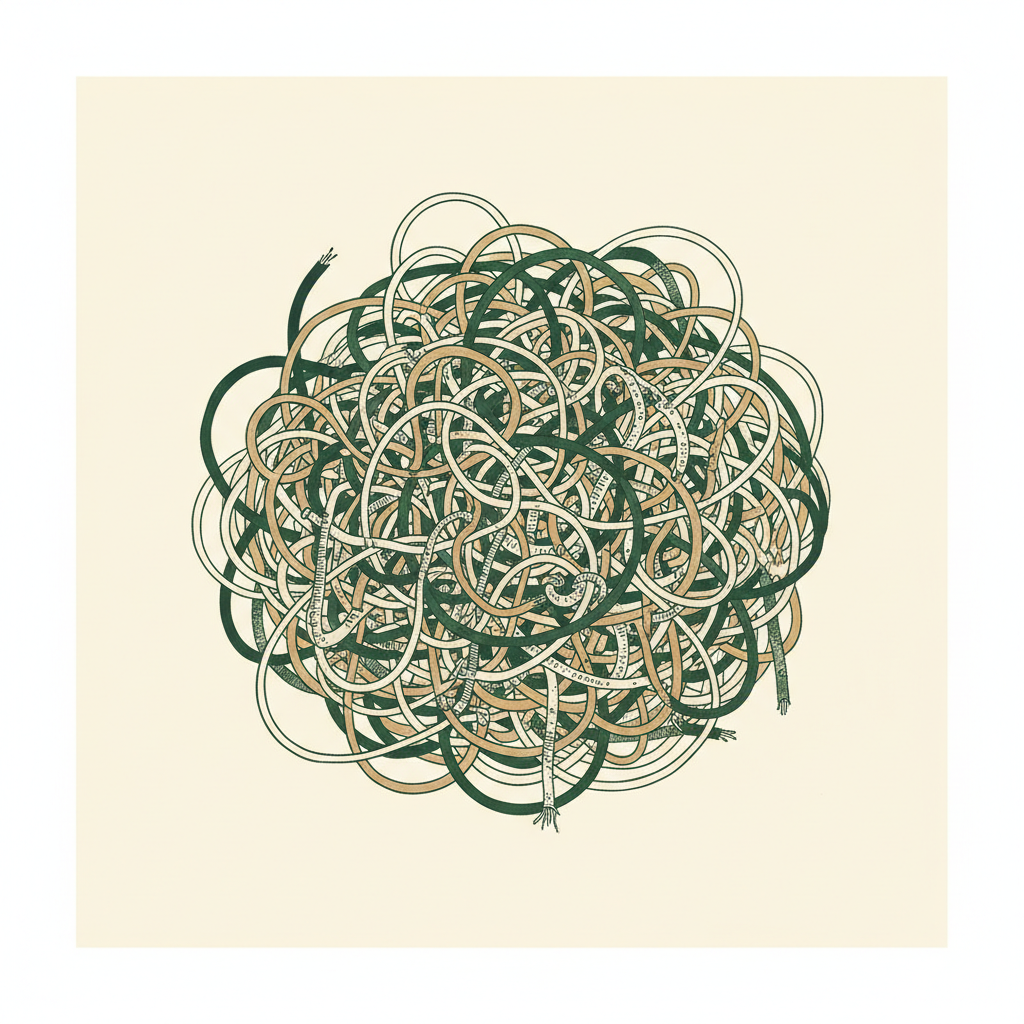
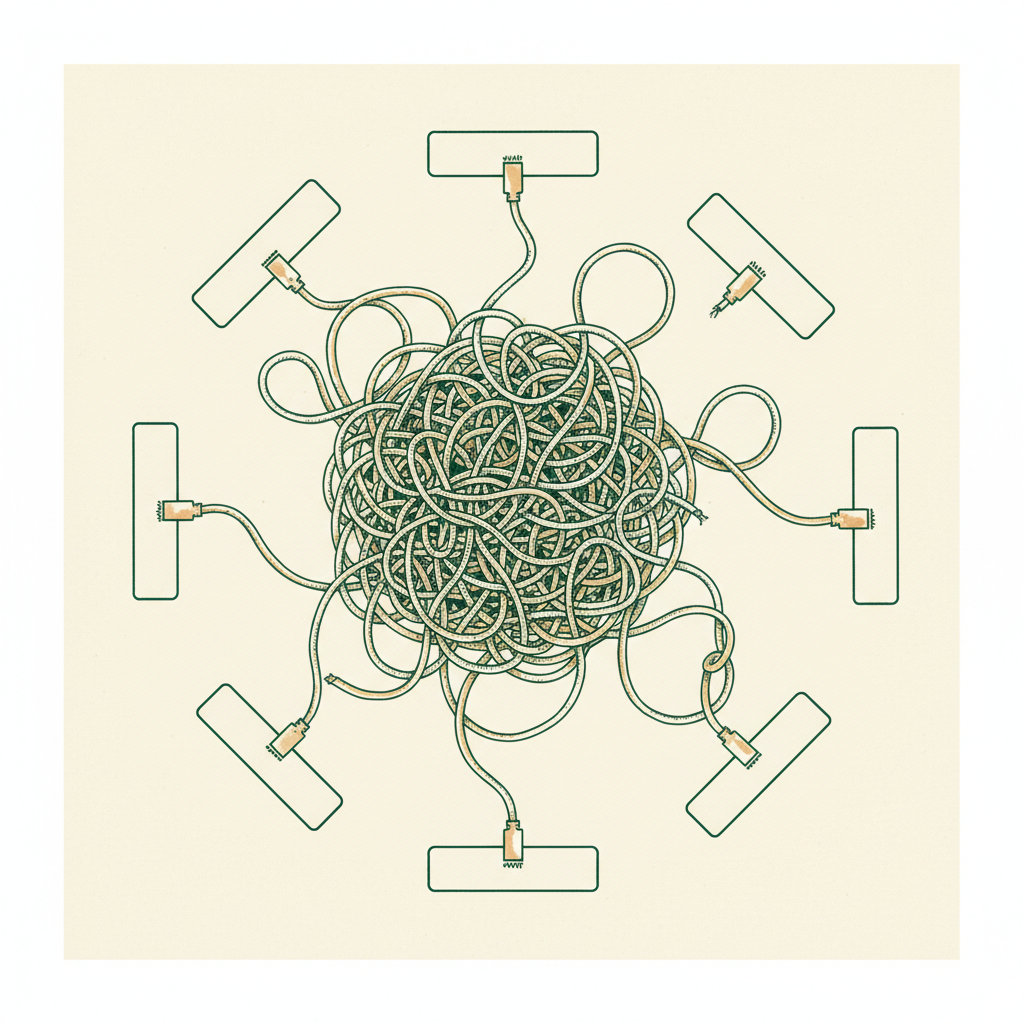
fix(reality): tangled visual now shows wired no-code modules
Reality copy refined to "no-code automation tools wired together",
and the second illustration regenerated so the snarl is the
connecting wires between flowchart-style modules rather than a
generic ball of yarn. Reads more clearly as automation gone wrong.

diff --git a/src/utils/marketingContent.ts b/src/utils/marketingContent.ts
@@ -49,7 +49,7 @@ export const realityPoints: { index: string; label: string; line: string }[] = [
     {
         index: "02",
         label: "Drag, drop, pray",
-        line: "No-code tools wired together once, in front of one person. Now nobody can read them, and they break the week a vendor shifts a field.",
+        line: "No-code automation tools wired together once, in front of one person. Now nobody can read them, and they break the week a vendor shifts a field.",
     },
     {
         index: "03",